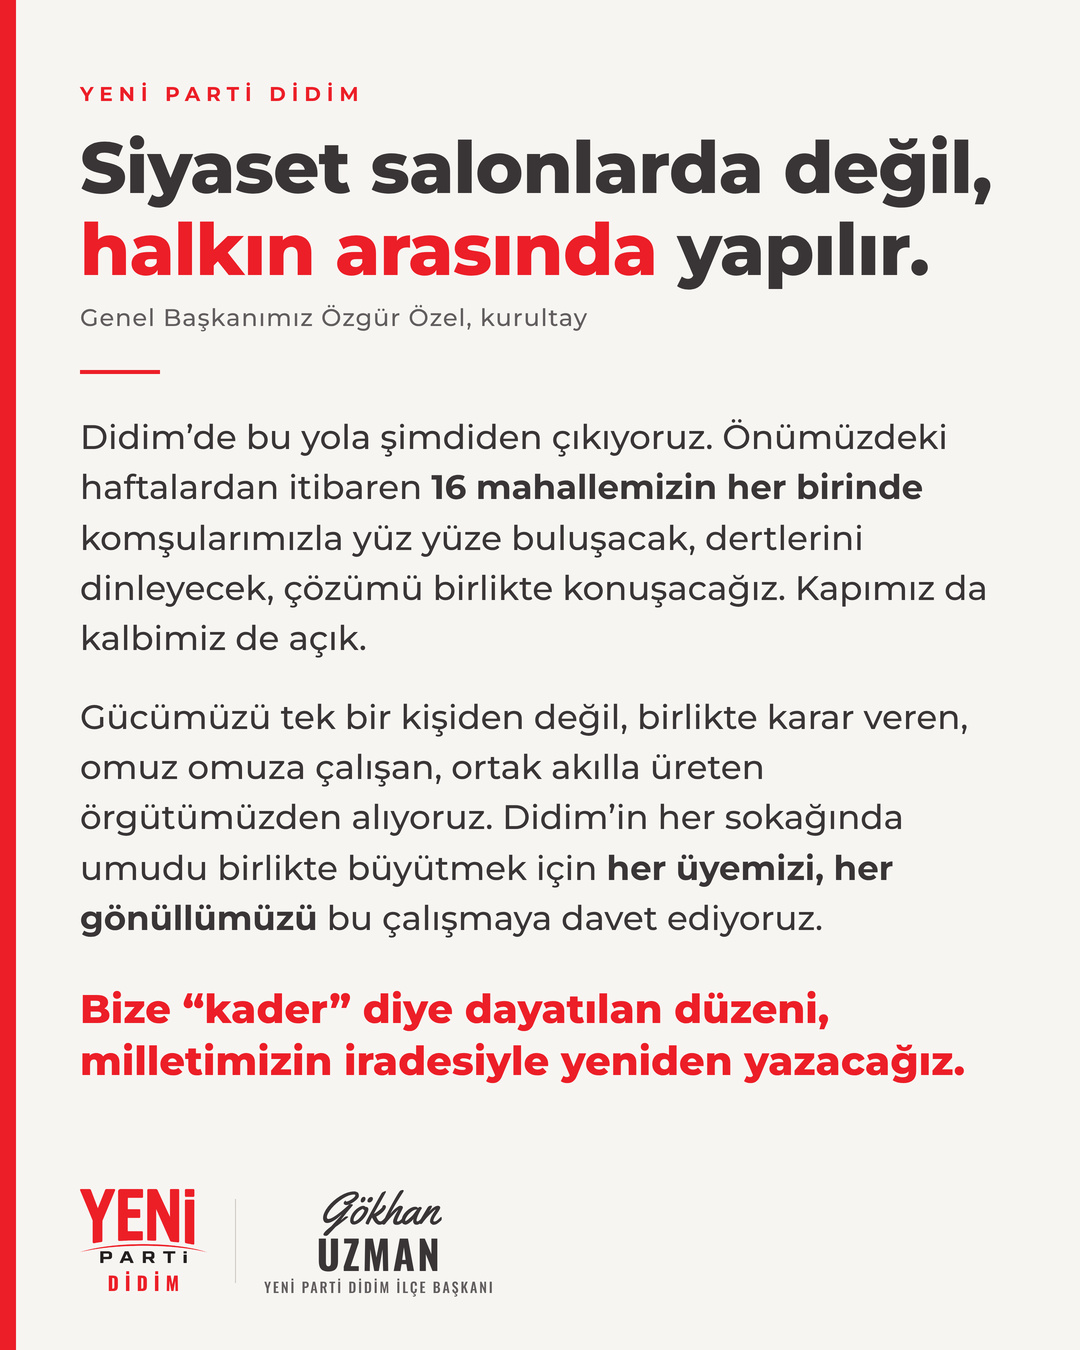
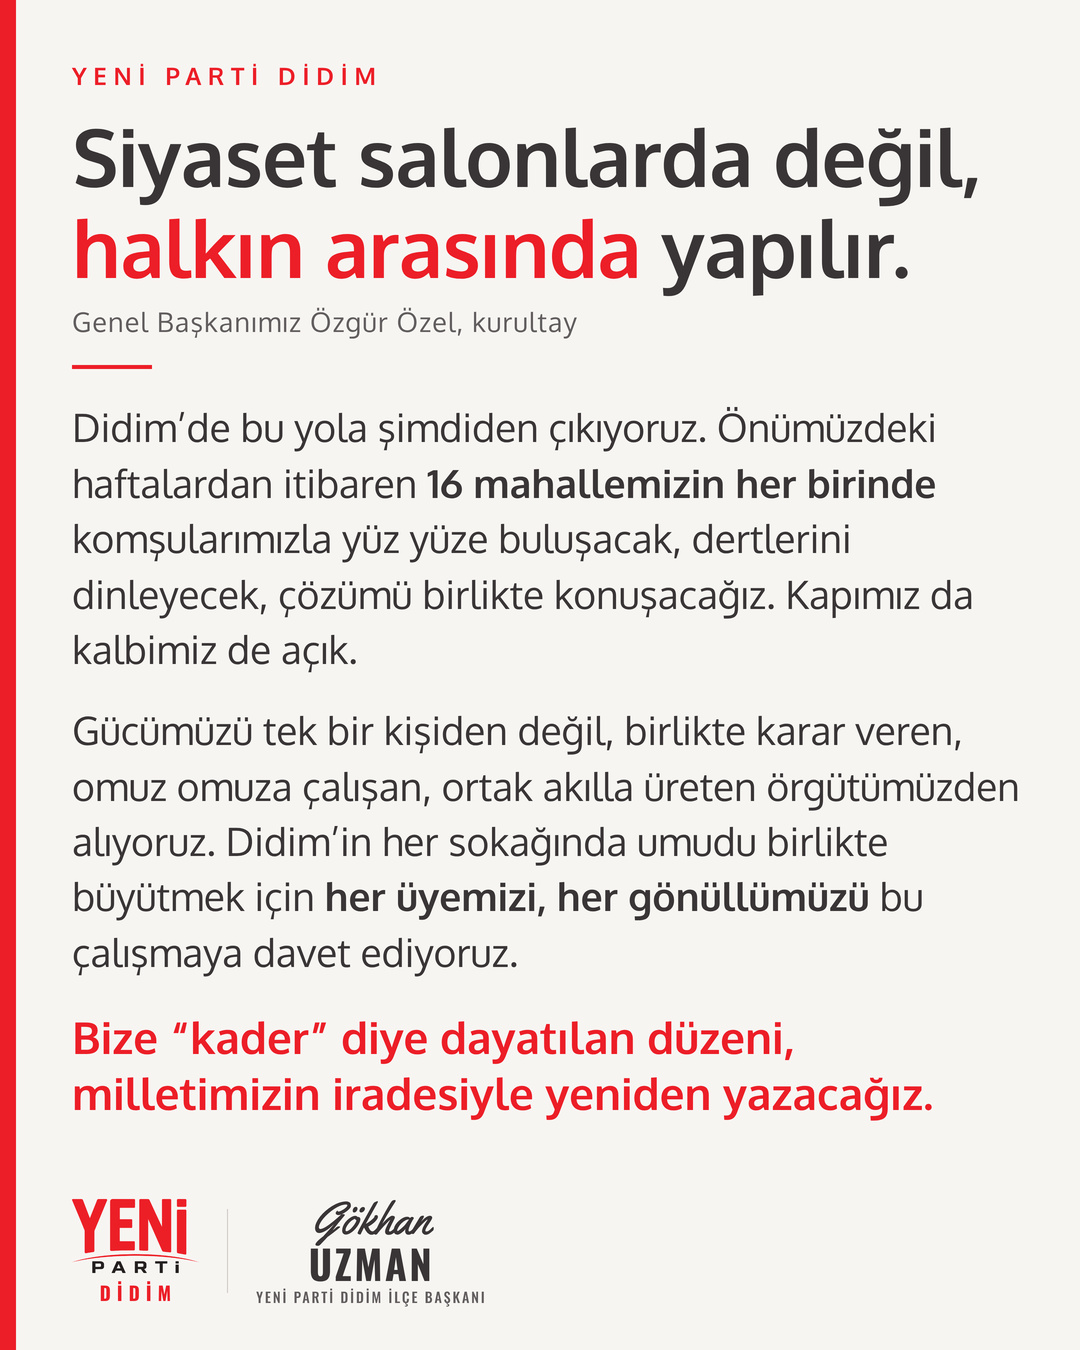
Sahaya çıkıyoruz: kurumsal Oxygen fontu, büyük yazı
Claude-Session: https://claude.ai/code/session_01SatttGbgBLoCnk9KGLypWv

diff --git a/tasarim/kisisel/sahaya-cikiyoruz/post.html b/tasarim/kisisel/sahaya-cikiyoruz/post.html
@@ -1,23 +1,23 @@
-<!doctype html><html lang="tr"><meta charset="utf-8"><style>
-@font-face{font-family:M;font-weight:500;src:url(../../fontlar-gecici/Montserrat-500.ttf)}
-@font-face{font-family:M;font-weight:700;src:url(../../fontlar-gecici/Montserrat-700.ttf)}
-@font-face{font-family:M;font-weight:800;src:url(../../fontlar-gecici/Montserrat-800.ttf)}
+<!doctype html><html lang="tr"><meta charset="utf-8"><style>@font-face{font-family:Ox;font-weight:400;src:url(oxygen-latin-ext-400-normal.woff2);unicode-range:U+0100-0130,U+0132-024F}@font-face{font-family:Ox;font-weight:400;src:url(oxygen-latin-400-normal.woff2);unicode-range:U+0000-00FF,U+0131,U+2000-206F}@font-face{font-family:Ox;font-weight:700;src:url(oxygen-latin-ext-700-normal.woff2);unicode-range:U+0100-0130,U+0132-024F}@font-face{font-family:Ox;font-weight:700;src:url(oxygen-latin-700-normal.woff2);unicode-range:U+0000-00FF,U+0131,U+2000-206F}
+
+
+
 @font-face{font-family:YT;src:url(../../fontlar-gecici/Yellowtail.ttf)}
 @font-face{font-family:O7;src:url(../../fontlar-gecici/Oswald-700.ttf)}
 @font-face{font-family:O5;src:url(../../fontlar-gecici/Oswald-500.ttf)}
 :root{--kir:#EC1E27;--kirk:#B5121B;--gri:#393536;--g2:#615D5E}
-html,body{margin:0;width:1080px;height:1350px;overflow:hidden;background:#F7F5F2;color:var(--gri);font-family:M,sans-serif}
+html,body{margin:0;width:1080px;height:1350px;overflow:hidden;background:#F7F5F2;color:var(--gri);font-family:Ox,sans-serif}
 .serit{position:absolute;left:0;top:0;bottom:0;width:16px;background:var(--kir)}
-.wrap{position:absolute;left:80px;right:64px;top:84px}
-.ust{font:700 20px/1 M;letter-spacing:.3em;color:var(--kir)}
-h1{margin:22px 0 0;font:800 72px/1.14 M;letter-spacing:-.01em}
+.wrap{position:absolute;left:72px;right:52px;top:64px}
+.ust{font:700 24px/1 Ox;letter-spacing:.28em;color:var(--kir)}
+h1{margin:22px 0 0;font:700 80px/1.14 Ox;letter-spacing:-.01em}
 h1 span{color:var(--kir)}
-.alinti{margin-top:16px;font:500 24px/1 M;color:var(--g2);letter-spacing:.04em}
-.c{width:80px;height:4px;background:var(--kir);margin:40px 0 38px}
-p{margin:0 0 28px;font:500 34px/1.48 M}
+.alinti{margin-top:16px;font:400 27px/1 Ox;color:var(--g2);letter-spacing:.04em}
+.c{width:80px;height:4px;background:var(--kir);margin:30px 0 30px}
+p{margin:0 0 26px;font:400 39px/1.42 Ox}
 p b{font-weight:700}
-.son{margin-top:40px;font:800 40px/1.3 M;color:var(--kir)}
-.imza{position:absolute;left:80px;bottom:56px;display:flex;align-items:center;gap:28px}
+.son{margin-top:30px;font:700 44px/1.28 Ox;color:var(--kir)}
+.imza{position:absolute;left:72px;bottom:46px;display:flex;align-items:center;gap:28px}
 .lg{display:flex;flex-direction:column;align-items:center}.lg img{height:74px}
 .lg span{margin-top:10px;font:19px/1 O7;letter-spacing:.32em;padding-left:.32em;color:var(--kir)}
 .ay{width:1.5px;height:84px;background:#CFCAC4}
